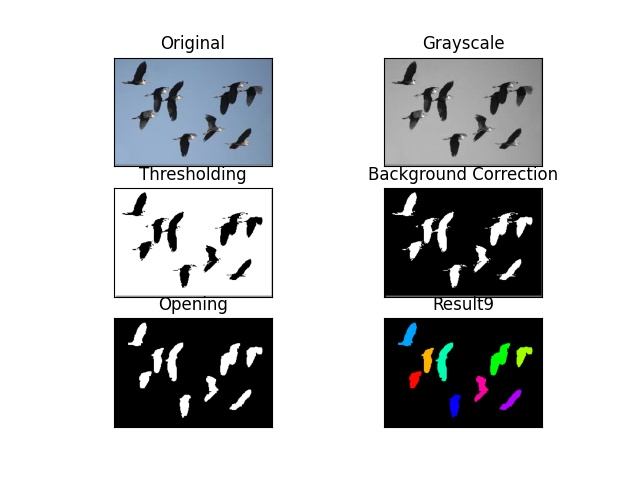
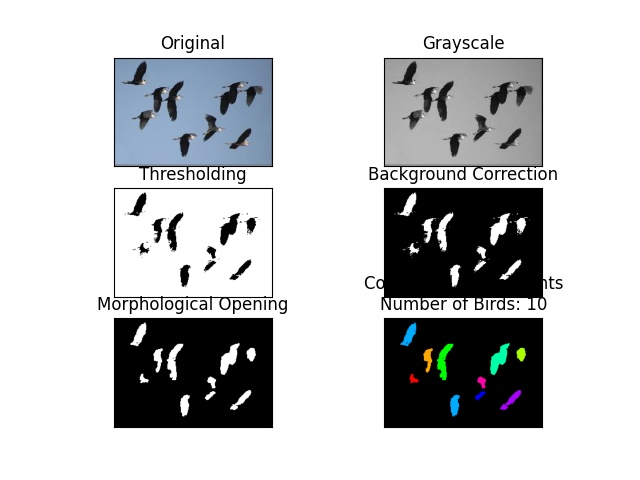
Almost done

diff --git a/sw/BirdCount/main.py b/sw/BirdCount/main.py
@@ -18,35 +18,15 @@ def rgb2gray(img):
             gray[i,j] = np.clip(0.07 * img[i,j,0] + 0.72 * img[i,j,1] + 0.21 * img[i,j,2], 0, 255)    
     return gray
 
-# Converts pixel values according to background decision
-# Counts zero(0x00) and one(0xFF) pixels in the image
-def findBackground(img):
-    zeros = 0
-    ones = 0
-    H,W = img.shape[:2]
-    for i in range(H):
-        for j in range(W):
-            if(img[i,j] == 0):
-                zeros += 1
-            else:
-                ones += 1
-
-    # Convert foreground and background pixels
-    if(ones > zeros):
-        for i in range(H):
-            for j in range(W):
-                if(img[i,j] == 0):
-                    img[i,j] = 255
-                else:
-                    img[i,j] = 0
-
-    return img
-
+# K Means Clustering algorithm for calculating threshold
+# Threshold value is strengthened after K Means
 def kMeansClustering(img):
     threshold = 0
     newThreshold = 128
     counter = 0
+    # Continue until the threshold value is 0.1 near from the previous one
     while(abs(threshold - newThreshold) > 0.1):
+        # Initialize sum and count values
         threshold = newThreshold
         foregroundSum = 0
         backgroundSum = 0
@@ -64,11 +44,11 @@ def kMeansClustering(img):
                     backgroundSum += pixel
         foregroundMean = foregroundSum / foregroundCount
         backgroundMean = backgroundSum / backgroundCount
-        #print('Foreground Count:' + str(foregroundCount) + ' Sum:' + str(foregroundSum) + ' Mean:' + str(foregroundMean))
-        #print('Background Count:' + str(backgroundCount) + ' Sum:' + str(backgroundSum) + ' Mean:' + str(backgroundMean))
         newThreshold = (foregroundMean + backgroundMean) / 2
+    newThreshold = newThreshold + ( 1.95 * (newThreshold - 128))
     return newThreshold
 
+# Calculated threshold is applied to an image
 def thresholding(img, threshold):
     H,W = img.shape[:2]
     for i in range(H):
@@ -79,73 +59,133 @@ def thresholding(img, threshold):
                 img[i,j] = 0
     return img
 
+# Converts pixel values according to background decision
+# Counts zero(0x00) and one(0xFF) pixels in the image
+# Reverts zeros and ones if needed
+def findBackground(img):
+    zeros = 0
+    ones = 0
+    H,W = img.shape[:2]
+    for i in range(H):
+        for j in range(W):
+            if(img[i,j] == 0):
+                zeros += 1
+            else:
+                ones += 1
+    # Convert foreground and background pixels
+    if(ones > zeros):
+        for i in range(H):
+            for j in range(W):
+                if(img[i,j] == 0):
+                    img[i,j] = 255
+                else:
+                    img[i,j] = 0
+    return img
+
+def dilation(img, kernel):
+    H,W = img.shape[:2]
+    for i in range(H):
+        for j in range(W):
+            img[i,j] = 0
+    return img    
+
+def erosian(img, kernel):
+    H,W = img.shape[:2]
+    for i in range(H):
+        for j in range(W):
+            img[i,j] = 0
+    return img
+
+# Lables the neighbours of given pixel with given label counter
+# This function works recursively
+# Algorithm taken from course lectures (UCL-L1_Segmentation_02.pdf)
+def label(xStart, yStart, counter, image, labeledImage):
+    # Connectivity matrix of 4 neighbourhood 
+    connectivityMatrix = [[-1, 0], [0, -1], [0, 1], [1, 0]]
+    labeledImage[xStart, yStart] = counter;
+    H,W = image.shape[:2]
+    for offset in connectivityMatrix:
+        x = xStart + offset[1]
+        y = yStart + offset[0]
+        if(x < 0 or x >= H or y < 0 or y >= W):
+            continue
+        if(image[x,y] == 255 and labeledImage[x,y] == 0):
+            label(x, y, counter, image, labeledImage)
+
+# Find the connected components using label function
+# Algorithm taken from course lectures (UCL-L1_Segmentation_02.pdf)
+def connectedComponents(image):
+    H,W = image.shape[:2]
+    labeledImage = np.zeros([H, W], dtype=np.uint16)
+    counter = 1
+    for i in range(H):
+        for j in range(W):
+            if(image[i,j]==255 and labeledImage[i,j]==0):
+                label(i, j, counter, image, labeledImage)
+                counter += 1
+    #labeledImage = np.stack((labeledImage,)*4, axis=-1)
+    return counter, labeledImage
 
 print("Finding number of birds in images")
 
 # Read image
 image = plt.imread('bird_1.jpg')
+
 plt.subplot(3, 2, 1), plt.imshow(image, 'gray')
 plt.title('Original')
 plt.xticks([]), plt.yticks([])
 
 # Convert to grayscale
 image = rgb2gray(image)
+
 plt.subplot(3, 2, 2), plt.imshow(image, 'gray')
 plt.title('Grayscale')
 plt.xticks([]), plt.yticks([])
 
+# K Means Clustering algorithm for calculating threshold
 threshold = kMeansClustering(image)
 print('Threshold:' + str(threshold))
 
-# Smooting
-#image = cv2.GaussianBlur(image, (5,5), 0)
-
-# Thresholding
-#image = cv2.adaptiveThreshold(image, 255, cv2.ADAPTIVE_THRESH_GAUSSIAN_C, cv2.THRESH_BINARY, 99, 20)
-
-#ret, image = cv2.threshold(image, threshold, 255, cv2.THRESH_BINARY + cv2.THRESH_OTSU)
-#ret, image = cv2.threshold(image, threshold, 255, cv2.THRESH_BINARY)
-
+# Calculated threshold is applied to an image
 image = thresholding(image, threshold)
 plt.subplot(3, 2, 3), plt.imshow(image, 'gray')
 plt.title('Thresholding')
 plt.xticks([]), plt.yticks([])
 
-
-
+# Converts pixel values according to background decision
 image = findBackground(image)
 plt.subplot(3, 2, 4), plt.imshow(image, 'gray')
 plt.title('Background Correction')
 plt.xticks([]), plt.yticks([])
 
-# Dilation and Erosian
-#kernel = np.ones((5,5), np.uint8)
-#image = cv2.dilate(image, kernel, iterations=1)
-#image = cv2.erode(image, kernel, iterations=1)
-
-
-# noise removal
+# Morphological Opening (Dilation and Erosian)
+# These functions are used from openCV
 kernel = np.ones((3,3), np.uint8)
-image = cv2.morphologyEx(image, cv2.MORPH_OPEN, kernel, iterations = 1)
+image = cv2.erode(image, kernel, iterations=1)
+image = cv2.dilate(image, kernel, iterations=1)
 
 plt.subplot(3, 2, 5), plt.imshow(image, 'gray')
-plt.title('Opening')
+plt.title('Morphological Opening')
 plt.xticks([]), plt.yticks([])
 
+# Finding connected components with 4 neighbourhood
+ret, labels1 = connectedComponents(image)
 
-# clean all noise after dilatation and erosion
-#imgMedian = cv2.medianBlur(image, 7)
+# One of the label is background
+# Substract 1 to find the number of birds
+numberOfBirds = ret - 1
+print("connectedComponents ret:" + str(numberOfBirds))
 
-
-ret, labels = cv2.connectedComponents(image)
-labelHue = np.uint8(179 * labels / np.max(labels))
+# For assigning different colors to each bird
+# OpenCV functions are used for generating colored images
+labelHue = np.uint8(200 * labels1 / np.max(labels1))
 blankChannel = 255 * np.ones_like(labelHue)
 image = cv2.merge([labelHue, blankChannel, blankChannel])
 image = cv2.cvtColor(image, cv2.COLOR_HSV2BGR)
 image[labelHue == 0] = 0
 
 plt.subplot(3, 2, 6), plt.imshow(image, 'gray')
-plt.title('Result' + str(ret-1))
+plt.title('Connected Components\nNumber of Birds: ' + str(numberOfBirds))
 plt.xticks([]), plt.yticks([])
 
 plt.savefig('result.jpg')
